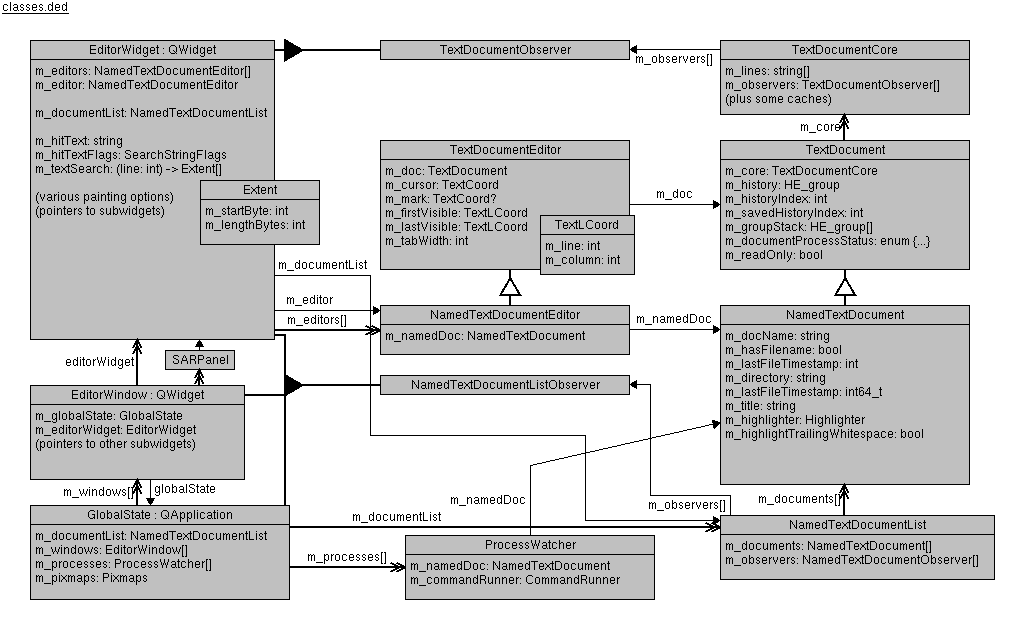
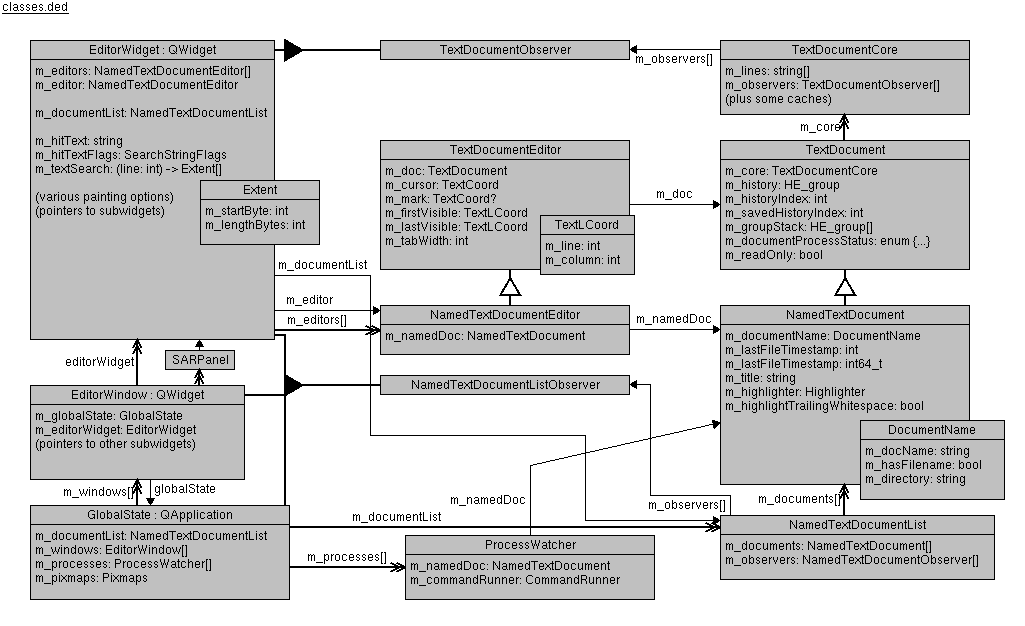
named-td: Extract class DocumentName (doc-name.h) from m_docName, m_hasFilename, and m_directory.
This is a first step toward adding a host name for accessing remote
files.

DocumentName has a 'compareTo' method that is not used yet.

Changed region(s): [[0.718, 0.516, 0.999, 0.8195]]

diff --git a/named-td.h b/named-td.h
@@ -4,11 +4,15 @@
 #ifndef NAMED_TD_H
 #define NAMED_TD_H
 
+// editor
+#include "doc-name.h"                  // DocumentName
 #include "hilite.h"                    // Highlighter
 #include "td.h"                        // TextDocument
 
+// smbase
 #include "str.h"                       // string
 
+// libc
 #include <stdint.h>                    // int64_t
 
 
@@ -34,23 +38,9 @@ public:      // static data
   static int s_objectCount;
 
 private:     // data
-  // Name of document.  This is a filename if 'm_hasFilename' is true.
-  // Otherwise, it is a human-readable string describing the origin of
-  // the content.  It must be unique within the list of
-  // NamedTextDocuments in its containing NamedTextDocumentList.  It
-  // must not be empty.
-  string m_docName;
-
-  // When true, 'm_docName' is the name of a file on disk.
-  bool m_hasFilename;
-
-  // Directory associated with this document.  For a file, this is the
-  // directory containing the file.  For process output, it is the
-  // working directory of the process.  For others, it's somewhat
-  // arbitrary, with the working directory of the editor itself acting
-  // as the final fallback.  It must always end with a path separator
-  // character, and it only uses '/' as the separator, even on Windows.
-  string m_directory;
+  // File name, etc.  Unique within the containing
+  // NamedTextDocumentList.
+  DocumentName m_documentName;
 
 public:      // data
   // Modification timestamp (unix time) the last time we interacted
@@ -87,9 +77,6 @@ public:      // data
   // of highlighting compositions at some point.
   bool m_highlightTrailingWhitespace;
 
-private:     // funcs
-  void setDirectory(string const &dir);
-
 public:      // funcs
   // Create an anonymous document.  The caller must call either
   // 'setFilename' or 'setNonFileName' before adding it to a document
@@ -102,28 +89,18 @@ public:      // funcs
   virtual void setDocumentProcessStatus(DocumentProcessStatus status) OVERRIDE;
 
   // ----------------------------- names ----------------------------
-  // Get the document's unique (within its NamedTextDocumentList) name.
-  string docName() const               { return m_docName; }
+  // See comments on the corresponding methods of DocumentName.
+  string docName() const               { return m_documentName.docName(); }
+  bool hasFilename() const             { return m_documentName.hasFilename(); }
+  string filename() const              { return m_documentName.filename(); }
+  string directory() const             { return m_documentName.directory(); }
 
-  // True if the document's name is a file name.
-  bool hasFilename() const             { return m_hasFilename; }
+  void setFilename(string const &filename)
+    { m_documentName.setFilename(filename); }
+  void setNonFileName(string const &name, string const &dir)
+    { m_documentName.setNonFileName(name, dir); }
 
-  // Get the filename for this document.  Requires 'hasFilename()'.
-  string filename() const;
-
-  // Set 'm_docName' to be 'filename', and 'm_hasFilename' to true.  It
-  // is the caller's responsibility to ensure uniqueness within the
-  // containing NamedTextDocumentList.  This also sets 'm_directory' to
-  // the directory of the file.
-  void setFilename(string const &filename);
-
-  // Set 'm_docName' to 'name' and 'm_hasFilename' to false.  The name
-  // still has to be unique.  Sets 'm_directory' to 'dir'.
-  void setNonFileName(string const &name, string const &dir);
-
-  // Get the directory associated with the document.
-  string directory() const             { return m_directory; }
-
+  // ---------------------------- status -------------------------------
   // Document name, process status, and unsaved changes.
   string nameWithStatusIndicators() const;
 

diff --git a/doc-name.h b/doc-name.h
@@ -1,0 +1,71 @@
+// doc-name.h
+// DocumentName class.
+
+#ifndef EDITOR_DOC_NAME_H
+#define EDITOR_DOC_NAME_H
+
+// smbase
+#include "sm-compare.h"                // StrongOrdering
+#include "str.h"                       // string
+
+
+// Encapsulate the "name" of a document within the editor.
+class DocumentName {
+private:     // data
+  // Name of document.  This is a filename if 'm_hasFilename' is true.
+  // Otherwise, it is a human-readable string describing the origin of
+  // the content.  It must be unique within the list of
+  // NamedTextDocuments in its containing NamedTextDocumentList.  It
+  // must not be empty when it is a part of such a list.
+  string m_docName;
+
+  // When true, 'm_docName' is the name of a file on disk.
+  bool m_hasFilename;
+
+  // Directory associated with this document.  For a file, this is the
+  // directory containing the file.  For process output, it is the
+  // working directory of the process.  For others, it's somewhat
+  // arbitrary, with the working directory of the editor itself acting
+  // as the final fallback.  It must always end with a path separator
+  // character, and it only uses '/' as the separator, even on Windows.
+  string m_directory;
+
+private:     // funcs
+  void setDirectory(string const &dir);
+
+public:      // methods
+  // Create an empty name.
+  DocumentName();
+  ~DocumentName();
+
+  DocumentName(DocumentName const &obj) = default;
+  DocumentName& operator=(DocumentName const &obj) = default;
+
+  // Compare by 'm_docName'.
+  StrongOrdering compareTo(DocumentName const &obj) const;
+
+  // Get the document's unique (within its NamedTextDocumentList) name.
+  string docName() const               { return m_docName; }
+
+  // True if the document's name is a file name.
+  bool hasFilename() const             { return m_hasFilename; }
+
+  // Get the filename for this document.  Requires 'hasFilename()'.
+  string filename() const;
+
+  // Set 'm_docName' to be 'filename', and 'm_hasFilename' to true.  It
+  // is the caller's responsibility to ensure uniqueness within the
+  // containing NamedTextDocumentList.  This also sets 'm_directory' to
+  // the directory of the file.
+  void setFilename(string const &filename);
+
+  // Set 'm_docName' to 'name' and 'm_hasFilename' to false.  The name
+  // still has to be unique.  Sets 'm_directory' to 'dir'.
+  void setNonFileName(string const &name, string const &dir);
+
+  // Get the directory associated with the document.
+  string directory() const             { return m_directory; }
+};
+
+
+#endif // EDITOR_DOC_NAME_H

diff --git a/named-td.cc b/named-td.cc
@@ -18,9 +18,7 @@ CHECK_OBJECT_COUNT(NamedTextDocument);
 
 NamedTextDocument::NamedTextDocument()
   : TextDocument(),
-    m_docName(),
-    m_hasFilename(false),
-    m_directory(),
+    m_documentName(),
     m_lastFileTimestamp(0),
     m_modifiedOnDisk(false),
     m_title(),
@@ -49,41 +47,6 @@ void NamedTextDocument::setDocumentProcessStatus(DocumentProcessStatus status)
 }
 
 
-string NamedTextDocument::filename() const
-{
-  xassert(this->hasFilename());
-  return m_docName;
-}
-
-
-void NamedTextDocument::setDirectory(string const &dir)
-{
-  SMFileUtil sfu;
-  m_directory = sfu.ensureEndsWithDirectorySeparator(
-    sfu.normalizePathSeparators(dir));
-}
-
-
-void NamedTextDocument::setFilename(string const &filename)
-{
-  m_docName = filename;
-  m_hasFilename = true;
-
-  string dir, base;
-  SMFileUtil().splitPath(dir, base, filename);
-  this->setDirectory(dir);
-}
-
-
-void NamedTextDocument::setNonFileName(string const &name, string const &dir)
-{
-  m_docName = name;
-  m_hasFilename = false;
-
-  this->setDirectory(dir);
-}
-
-
 static char const *documentProcessStatusIndicator(
   NamedTextDocument const *doc)
 {
@@ -101,7 +64,7 @@ string NamedTextDocument::nameWithStatusIndicators() const
 {
   stringBuilder sb;
   sb << documentProcessStatusIndicator(this);
-  sb << this->docName();
+  sb << docName();
   sb << fileStatusString();
   return sb;
 }
@@ -126,7 +89,7 @@ void NamedTextDocument::replaceFileAndStats(
   bool readOnly)
 {
   TRACE("NamedTextDocument",
-    "replaceFileAndStats: docName=" << m_docName <<
+    "replaceFileAndStats: docName=" << docName() <<
     " contents.size()=" << contents.size() <<
     " modTime=" << fileModificationTime <<
     " readOnly=" << readOnly);

diff --git a/doc-name.cc b/doc-name.cc
@@ -1,0 +1,62 @@
+// doc-name.cc
+// Code for doc-name.h.
+
+#include "doc-name.h"                  // this module
+
+// smbase
+#include "sm-file-util.h"              // SMFileUtil
+
+
+DocumentName::DocumentName()
+  : m_docName(),
+    m_hasFilename(false),
+    m_directory()
+{}
+
+
+DocumentName::~DocumentName()
+{}
+
+
+StrongOrdering DocumentName::compareTo(DocumentName const &obj) const
+{
+  return strongOrderFromInt(m_docName.compareTo(obj.m_docName));
+}
+
+
+string DocumentName::filename() const
+{
+  xassert(hasFilename());
+  return m_docName;
+}
+
+
+void DocumentName::setDirectory(string const &dir)
+{
+  SMFileUtil sfu;
+  m_directory = sfu.ensureEndsWithDirectorySeparator(
+    sfu.normalizePathSeparators(dir));
+}
+
+
+void DocumentName::setFilename(string const &filename)
+{
+  m_docName = filename;
+  m_hasFilename = true;
+
+  string dir, base;
+  SMFileUtil().splitPath(dir, base, filename);
+  this->setDirectory(dir);
+}
+
+
+void DocumentName::setNonFileName(string const &name, string const &dir)
+{
+  m_docName = name;
+  m_hasFilename = false;
+
+  this->setDirectory(dir);
+}
+
+
+// EOF
